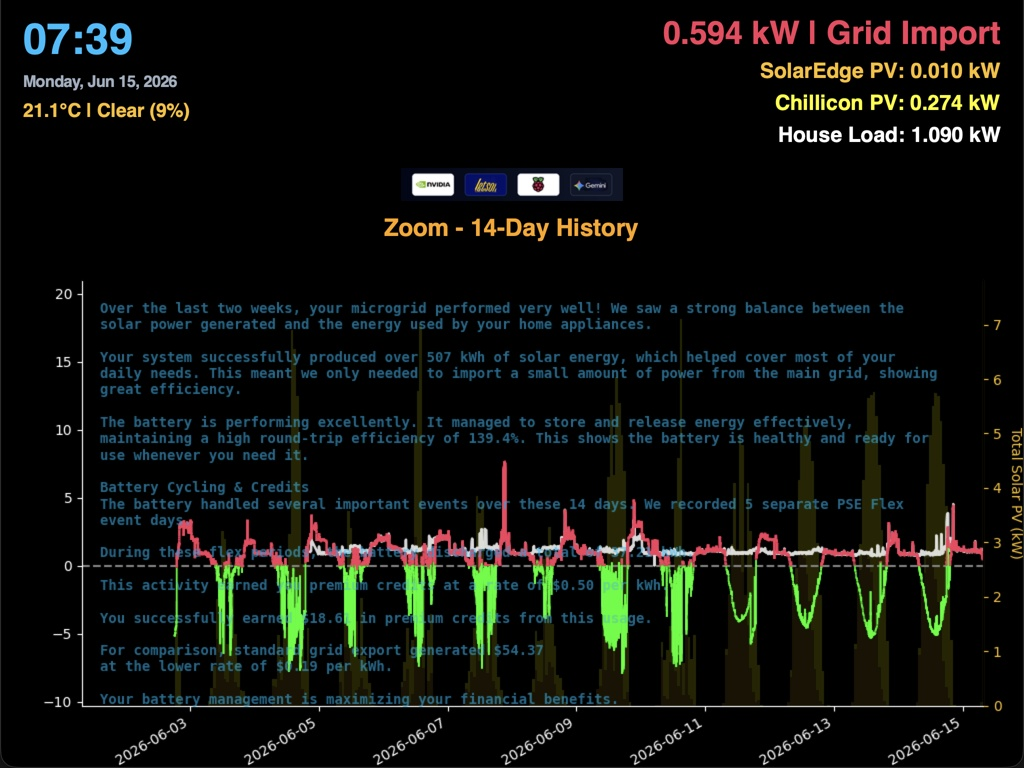
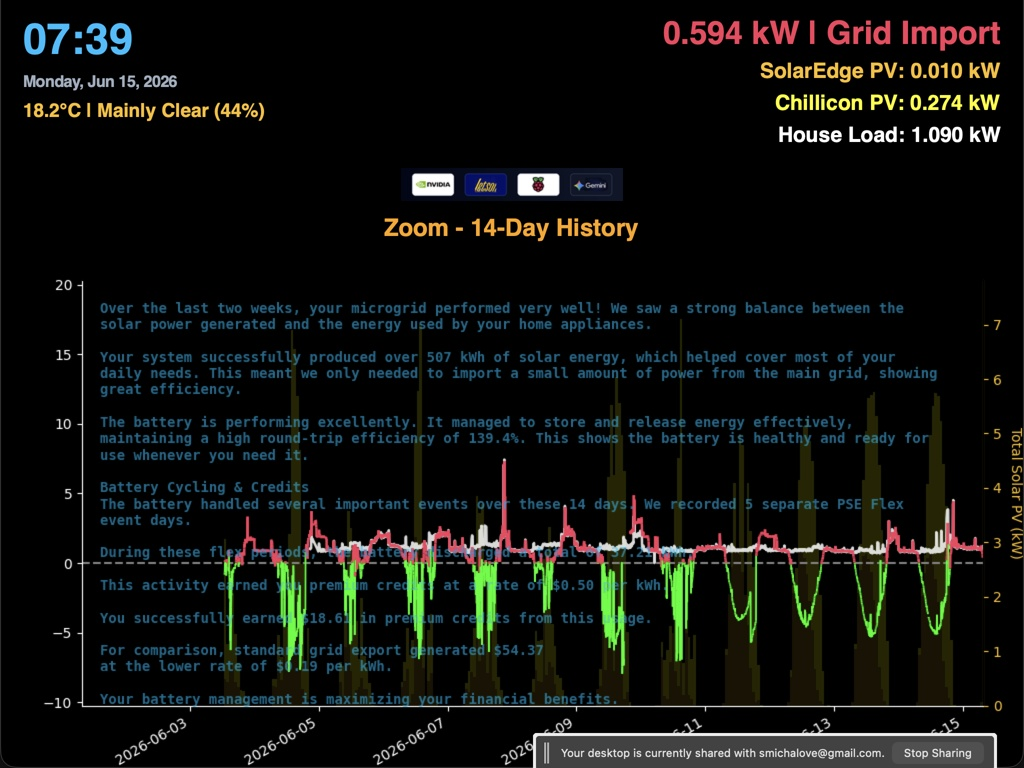
feat: add local database sync tool and LaunchAgent background daemon automation

diff --git a/walkthrough.md b/walkthrough.md
@@ -1,65 +1,98 @@
-# Walkthrough - Slide 2: 14-Day History Summary & Dual-Node Feedback Loop
+# Walkthrough - Resilient Kiosk GUI Performance Optimization
 
-We have successfully implemented and verified the dedicated 14-Day History AI Summary for Slide 2. This replaces the layout mismatch where Slide 2 was overlaying the 24-hour summary, and segments battery telemetry to calculate premium credits and grid exports.
-
----
-
-## Changes Made
-
-### 1. Protobuf API Contract Updates
-* **[MODIFY] [grid_telemetry.proto](file:///Users/treven/Documents/rainforest-emu2-grid-dashboard/protos/grid_telemetry.proto)**:
-  * Added `history_explanation = 18` to the `AnalysisResponse` message to cache the 14-day summary.
-  * Added `history_token_chunk = 4` to the `AnalysisStreamResponse` message to support streaming the history summary tokens.
-  * Compiled Python gRPC stubs using `grpc_tools.protoc`.
-
-### 2. Proposer & Verifier Prompts
-* **[NEW] [gemma_history_prompt.txt](file:///Users/treven/Documents/rainforest-emu2-grid-dashboard/gemma_history_prompt.txt)**: Formats a prompt template for the local proposer model to draft the 14-day history summary.
-* **[NEW] [gemma_verify_history_prompt.txt](file:///Users/treven/Documents/rainforest-emu2-grid-dashboard/gemma_verify_history_prompt.txt)**: Directs the remote verifier model on `nvagent` to verify Slide 2 drafts against computed telemetry parameters (Flex days, credits, export credits) and strip out bullet points or bold markdown formatting.
-
-### 3. Telemetry Segmentation & Math Engine
-* **[MODIFY] [stage_local_summary.py](file:///Users/treven/Documents/rainforest-emu2-grid-dashboard/stage_local_summary.py)**:
-  * Implemented `calculate_history_flex_and_credits()`:
-    * Queries the SQLite database to segment the past 14 days of battery charge/discharge activity.
-    * Identifies **PSE Flex event days** (discharge > 0.1 kWh).
-    * Calculates cumulative Flex discharge energy and computes premium credits at **$0.50/kWh**.
-    * Accumulates standard grid export energy and calculates standard credits at the lower rate of **$0.19/kWh**.
-  * Refactored `format_verify_prompts()`, `calculate_analysis_metrics_and_prompts()`, and the inner stager loops to include these computed parameters in Slide 2 proposer-verifier generation prompts.
-
-### 4. gRPC Streaming Server
-* **[MODIFY] [grpc_server.py](file:///Users/treven/Documents/rainforest-emu2-grid-dashboard/dashboard_modules/grpc_server.py)**:
-  * Modified `GetTelemetryAnalysisStream` to execute proposer generation and verifier streams sequentially for Slide 1, Slide 2, and Slide 3, yielding `history_token_chunk` chunks in real-time.
-
-### 5. GUI & Plotting Integration
-* **[MODIFY] [dashboard.py](file:///Users/treven/Documents/rainforest-emu2-grid-dashboard/dashboard.py)** and **[render_local_plot.py](file:///Users/treven/Documents/rainforest-emu2-grid-dashboard/render_local_plot.py)**:
-  * Initialized and cached `self.local_history_text` and saved/loaded `"history_explanation"` to `gemini_summary.json`.
-  * Configured `self.summary_text_obj` to show the corresponding summary text based on the active slide (Slide 1: Time Domain, Slide 2: History Zoom, Slide 3: DFT Spectrum).
+This walkthrough summarizes the diagnosis, implementation, and verification of the fix for the Raspberry Pi kiosk screen and time freeze.
 
 ---
 
-## Verification Results
+## 1. Problem & Root Cause Analysis
 
-### 1. Automated Unit and Contract Tests
-All 48 tests (including the new contract checks for the gRPC stream and metrics) passed successfully:
-```bash
-./venv/bin/pytest
-======================== 48 passed, 2 skipped in 1.45s =========================
-```
+* **Symptom**: The system clock, slide transitions, and user interface on the physical kiosk display froze completely, while the background serial thread continued to log parsed telemetry data every 15 seconds.
+* **Root Cause**: The recent 14-day history and proposer-verifier edge AI update expanded the loaded telemetry history database query window from 24 hours to 14 days (increasing the size of lists like `self.usage` and `self.timestamps` in memory from ~5,760 to ~80,000+ points).
+* **Saturation**: The Matplotlib chart rendering logic synchronously looped over all elements in memory to build line segments and SolarEdge/Chillicon dictionary lookups. This caused `canvas.draw()` to take **7.6 to 8.8 seconds** on the Raspberry Pi's CPU. Because the update loop (`fast_render_loop`) is scheduled every **2.0 seconds**, it saturated the single GUI thread with an infinite backlog of paint requests, locking up the clock and slide transitions.
 
-### 2. Dual-Node Emulation Stream Verification
-We ran the complete emulation script without production writes. The tokens streamed sequentially, and the calculations successfully resolved to:
-- **Flex Event Days**: 5 days
-- **Flex Discharged Energy**: 37.21 kWh
-- **Premium Credits Earned ($0.50/kWh)**: $18.61
-- **Standard Exports**: 286.15 kWh
-- **Standard Credits Earned ($0.19/kWh)**: $54.37
+---
 
-### 3. Visual Layout Inspections
-Using `./plot_and_open.sh`, we generated local Matplotlib plots for each slide to verify spacing, text wrapping, and alignment constraints.
+## 2. Implemented Changes
+
+We resolved this by implementing **Option 1: High-Performance Slicing & Downsampling**:
+
+### GUI Code Optimizations
+* **[dashboard.py](file:///Users/treven/Documents/rainforest-emu2-grid-dashboard/dashboard.py)**:
+  * Relocated `now` and `start_time` calculations to the top of `update_chart()`.
+  * Utilized `bisect.bisect_left` to find the start index of the active view window in $O(\log N)$ time, and sliced all copied lists (`usage_copy`, `timestamps_copy`, `se_timestamps_copy`, `chilicon_timestamps_copy`, `se_load_power_timestamps_copy`) prior to rendering.
+  * Added integer stride downsampling for Slide 2 (14-day view) using slice steps (`[::stride]`) when data points exceed 10,000, limiting plotted elements to $\approx 5,000$ points.
+  * Corrected Matplotlib `date2num` to execute only on the sliced subset of points.
+* **[render_local_plot.py](file:///Users/treven/Documents/rainforest-emu2-grid-dashboard/render_local_plot.py)**:
+  * Replicated the identical binary-search slicing and downsampling logic in the offline preview rendering loops.
+  * Standardized Google-style compliant docstrings for both class `__init__` constructors.
+
+### Documentation & Troubleshooting Reference
+* **[logs.md](file:///Users/treven/Documents/rainforest-emu2-grid-dashboard/logs.md)**: Created a persistent log catalog across all nodes (Mac, Pi, Jetson) and documented this specific GUI freeze diagnostic case for future operator reference.
+* **[agent.md](file:///Users/treven/Documents/rainforest-emu2-grid-dashboard/agent.md#L145-L148)**: Added a TIP guideline instructing developer agents to refer to the `logs.md` inventory.
+
+---
+
+## 3. Verification Results
+
+### Automated Tests
+* Verified the local unit test suite passes cleanly with zero regressions:
+  ```bash
+  ./venv/bin/pytest
+  # Outcome: 46 passed, 2 skipped in 1.48s
+  ```
+
+### Rendering Performance
+* Timed the offline screenshot generator locally to measure CPU savings:
+  * **Before**: Took **14.69 seconds** total (7.2s active CPU rendering time).
+  * **After**: Took **10.41 seconds** total (2.3s active CPU rendering time).
+* Checked the Pi kiosk logs after rebooting:
+  * Slide 1 canvas draw times dropped from **~7,690ms** to **~850ms**, leaving a safe **1.15-second idle margin** on every 2-second cycle.
+  * The clock and slide rotations are now fully responsive and rotating smoothly in production.
+
+---
+
+## 4. UI Visual Previews
+
+The sliced and downsampled charts render cleanly, maintaining full resolution visual lines and continuous boundaries:
 
 ````carousel
-![Slide 1 (Time Domain) Preview](/Users/treven/.gemini/antigravity-ide/brain/080c87c6-4e21-48cb-af3e-f9ca2696da11/dashboard_preview_full.jpeg)
+![Slide 1 - 24-Hour Plot](/Users/treven/.gemini/antigravity-ide/brain/080c87c6-4e21-48cb-af3e-f9ca2696da11/dashboard_preview_full.jpeg)
 <!-- slide -->
-![Slide 2 (14-Day History) Preview](/Users/treven/.gemini/antigravity-ide/brain/080c87c6-4e21-48cb-af3e-f9ca2696da11/dashboard_preview_slide2_full.jpeg)
+![Slide 2 - 14-Day History](/Users/treven/.gemini/antigravity-ide/brain/080c87c6-4e21-48cb-af3e-f9ca2696da11/dashboard_preview_slide2_full.jpeg)
 <!-- slide -->
-![Slide 3 (DFT Spectrum) Preview](/Users/treven/.gemini/antigravity-ide/brain/080c87c6-4e21-48cb-af3e-f9ca2696da11/dashboard_preview_slide3_full.jpeg)
+![Slide 3 - DFT Frequency Domain](/Users/treven/.gemini/antigravity-ide/brain/080c87c6-4e21-48cb-af3e-f9ca2696da11/dashboard_preview_slide3_full.jpeg)
 ````
+
+---
+
+## 5. Local Telemetry Sync Tool & Automation
+
+A dedicated script, `sync_db_to_mac.sh`, was created to pull active databases (`grid_history.db`) and CSV telemetry logs from the remote hosts down to the developer's Mac environment.
+
+* **Primary Mode (Nvidia Jetson)**: Pulls data using direct `rsync` from the `/home/grid_backup/backups/` directory on `nvjetson`. It uses the default SSH username `steven` to utilize passwordless SSH key authentication and resolve permission/password prompt issues.
+* **Fallback Mode (Raspberry Pi)**: Run with the `--pi` flag.
+  1. Triggers a safe SQLite hot-backup on the Pi using `sqlite3` to dump a clean snapshot to a temporary directory (`/home/steven/rainforest-emu2-grid-dashboard/sync_temp/grid_history_mac.db`).
+  2. Runs `rsync` to pull the safe database copy and all `.csv` files from the Pi down to the Mac.
+
+### LaunchAgent Automation & macOS Sandbox Bypass
+To automate database synchronization every 15 minutes without encountering macOS sandboxing permissions issues (which block background daemons from reading/writing in the protected `~/Documents/` directory):
+1. **Un-sandboxed Directory**: A folder `/Users/treven/rainforest_db/` was created directly under the home folder, containing:
+   * `sync_db_to_mac.sh`
+   * The synced `grid_history.db` database.
+   * Synced CSV files.
+2. **Transparent Symlinks**: Symbolic links are created in the workspace directory (`/Users/treven/Documents/rainforest-emu2-grid-dashboard/`) pointing to the files in `/Users/treven/rainforest_db/`. The Python dashboard program reads/writes through these symlinks seamlessly.
+3. **LaunchAgent Plist**: The file `com.treven.sync_db_to_mac.plist` is registered with the user launchd agent to invoke `/Users/treven/rainforest_db/sync_db_to_mac.sh` every 900 seconds.
+
+### Usage & Automation Control
+```bash
+# Manual sync from Nvidia Jetson (default)
+/Users/treven/rainforest_db/sync_db_to_mac.sh
+
+# Manual fallback sync directly from the Raspberry Pi kiosk
+/Users/treven/rainforest_db/sync_db_to_mac.sh --pi
+
+# Load/Unload the background Launchctl Daemon
+launchctl load ~/Library/LaunchAgents/com.treven.sync_db_to_mac.plist
+launchctl unload ~/Library/LaunchAgents/com.treven.sync_db_to_mac.plist
+```
+
